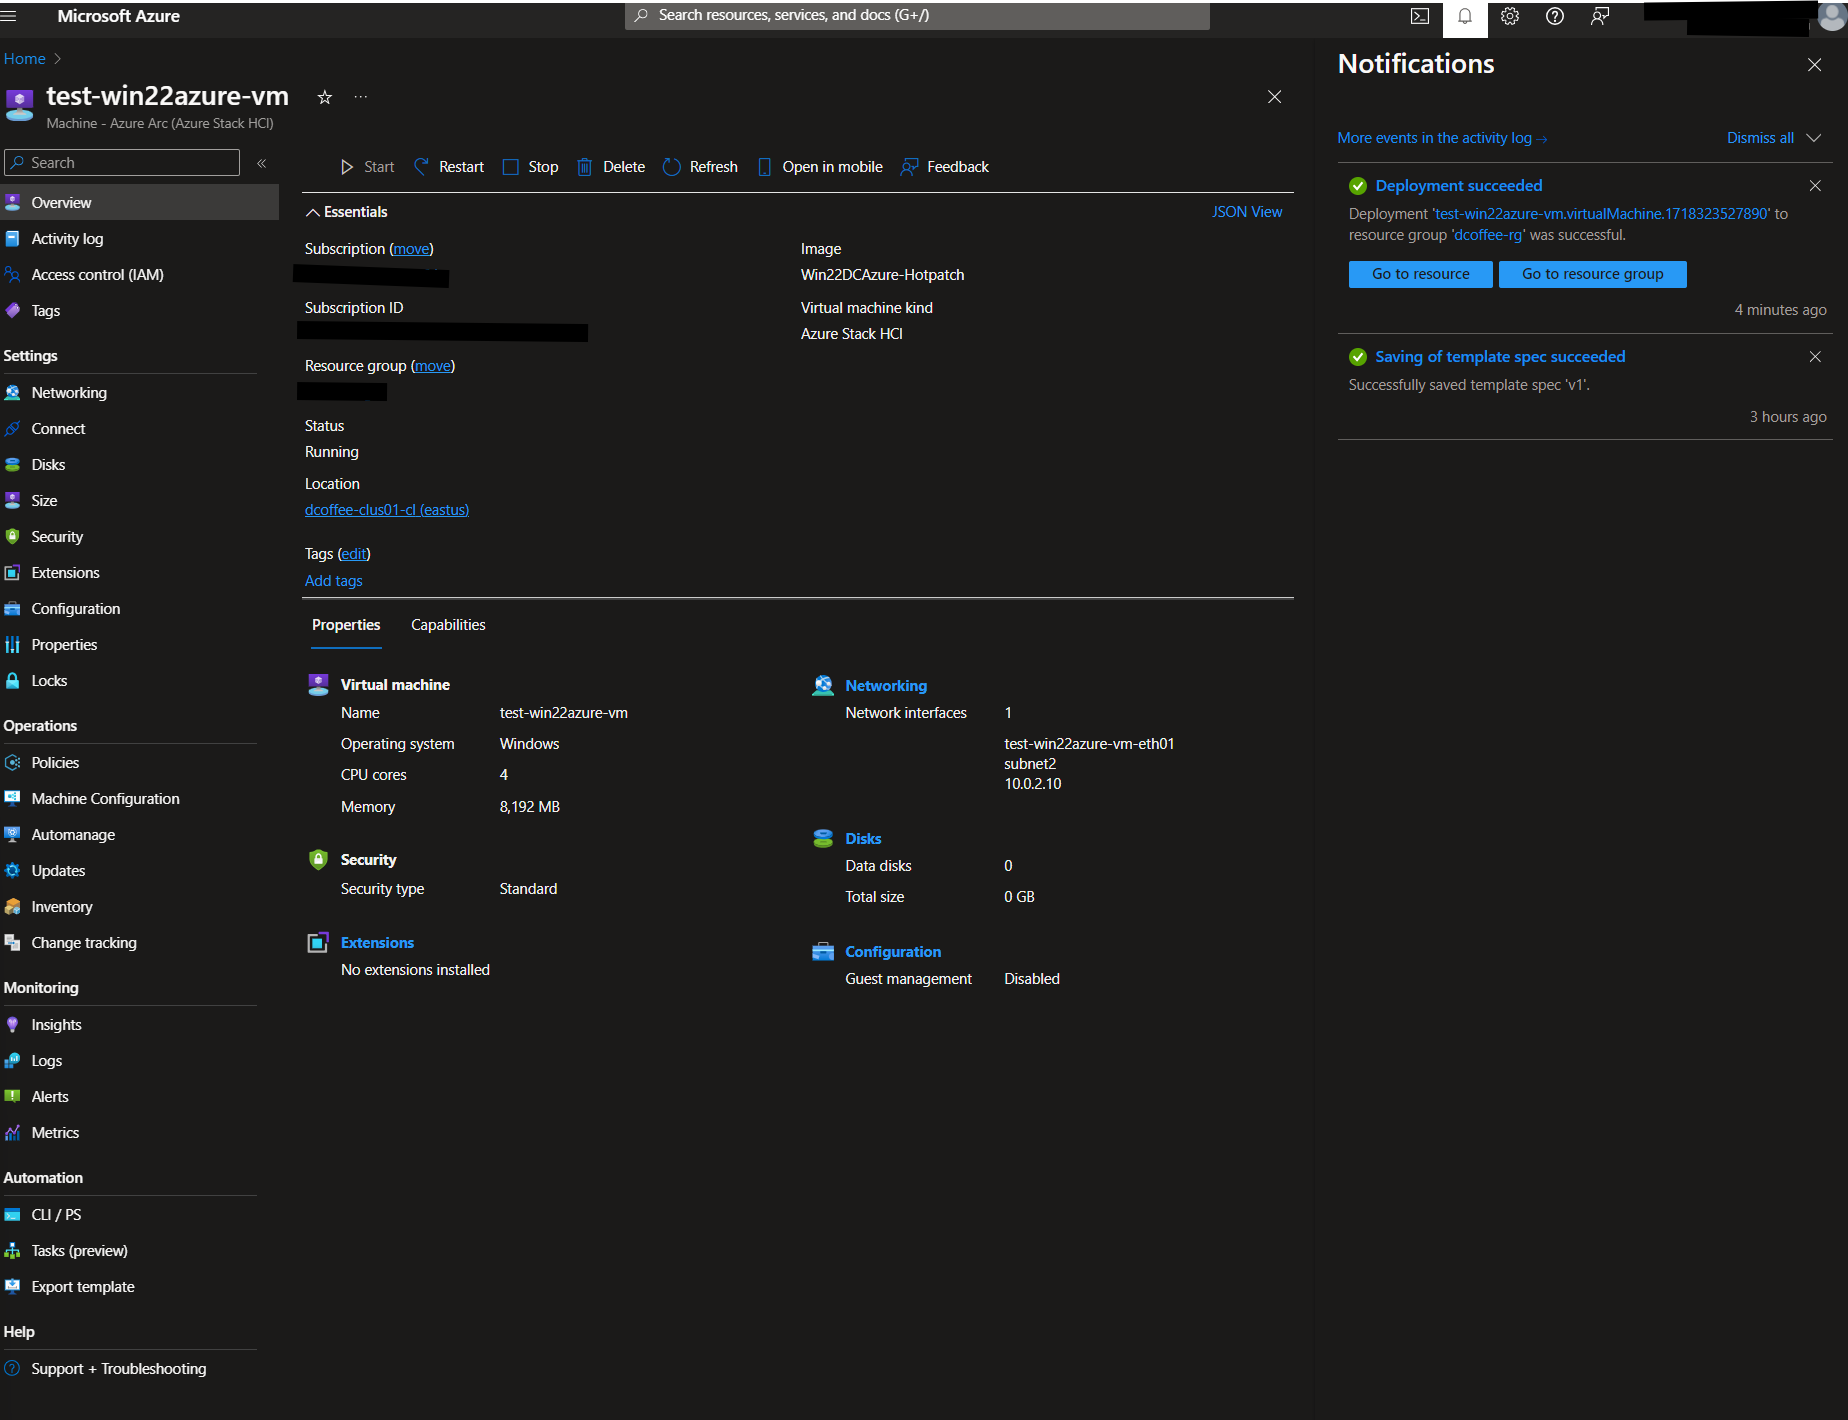
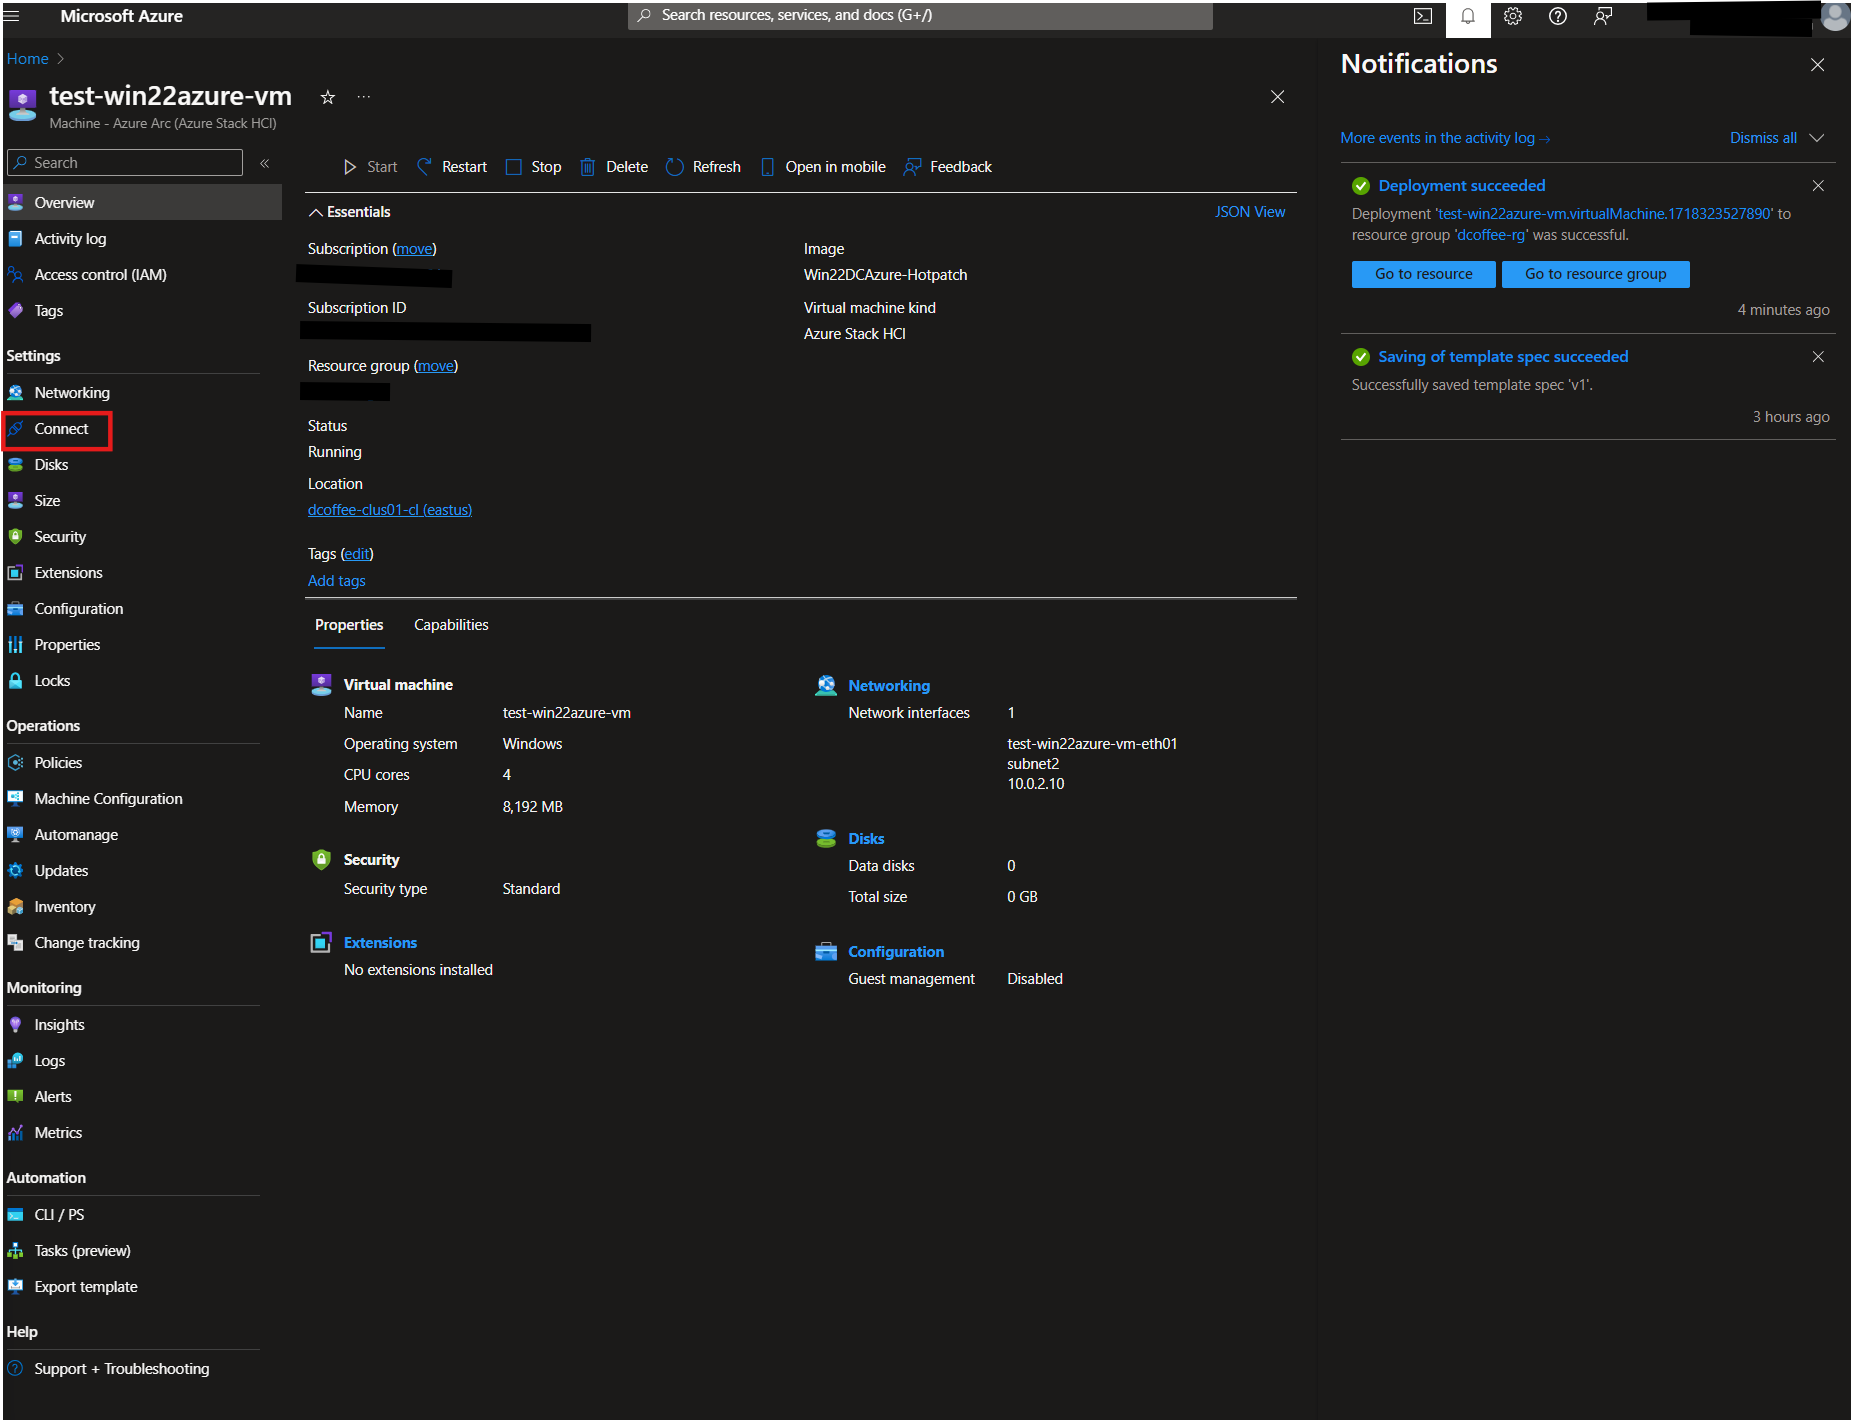
add wac result

diff --git a/05-AzArcVM-Management/README.md b/05-AzArcVM-Management/README.md
@@ -556,5 +556,11 @@ Networking:
 ![Create WinVM Result1](images/Create-WinVM-Result1.png)
 ![Create WinVM Result2](images/Create-WinVM-Result2.png)
 
+Let's see them on Windows Admin Center on-premise:
+![Create WinVM Result2](images/Create-WinVM-Result3.png)
+
+
+Now let's try to connect to the VM.
+
 ### Task 3 - Create Arc VMs (Linux) using Static from Azure CLI
 #### Expected Result
